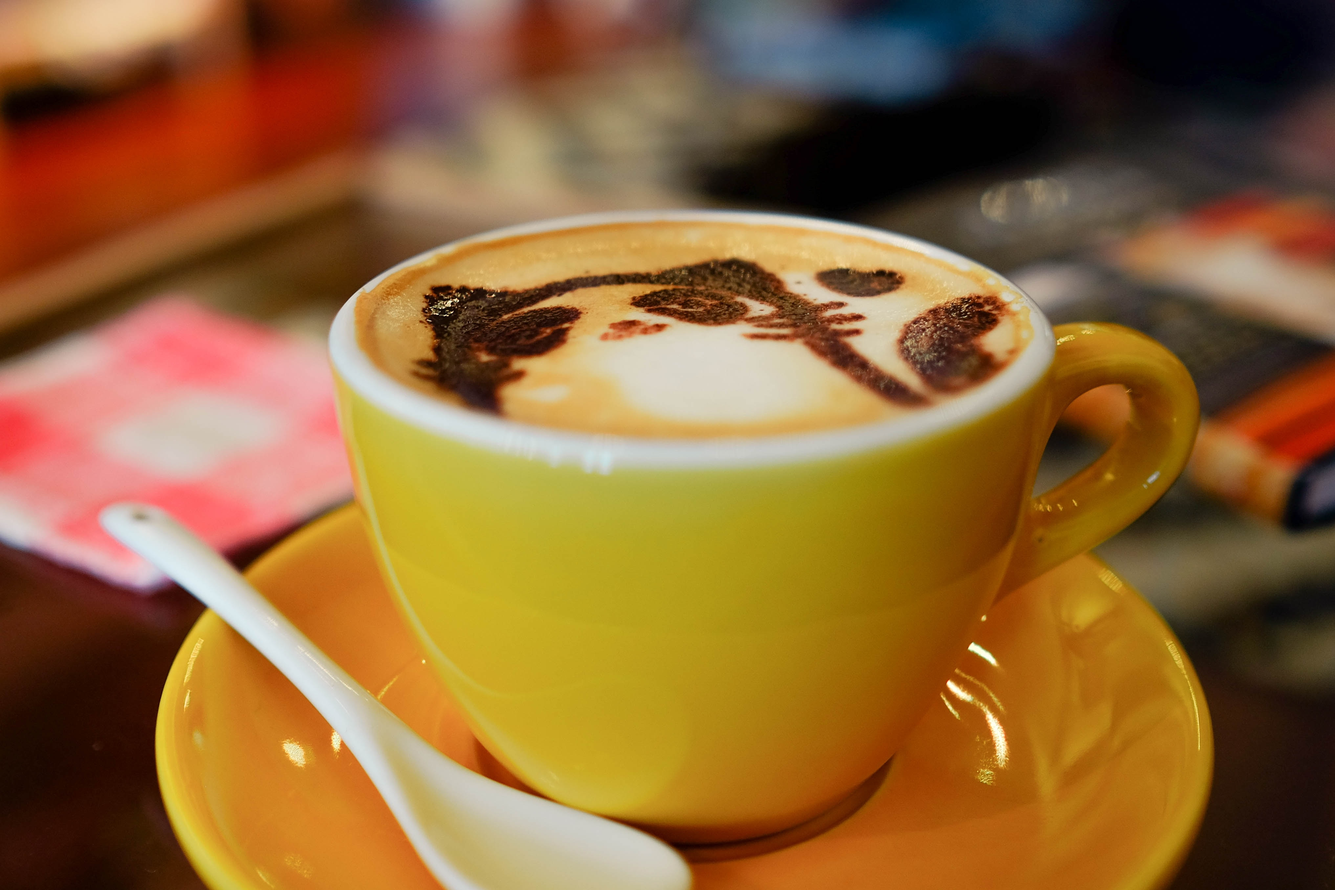
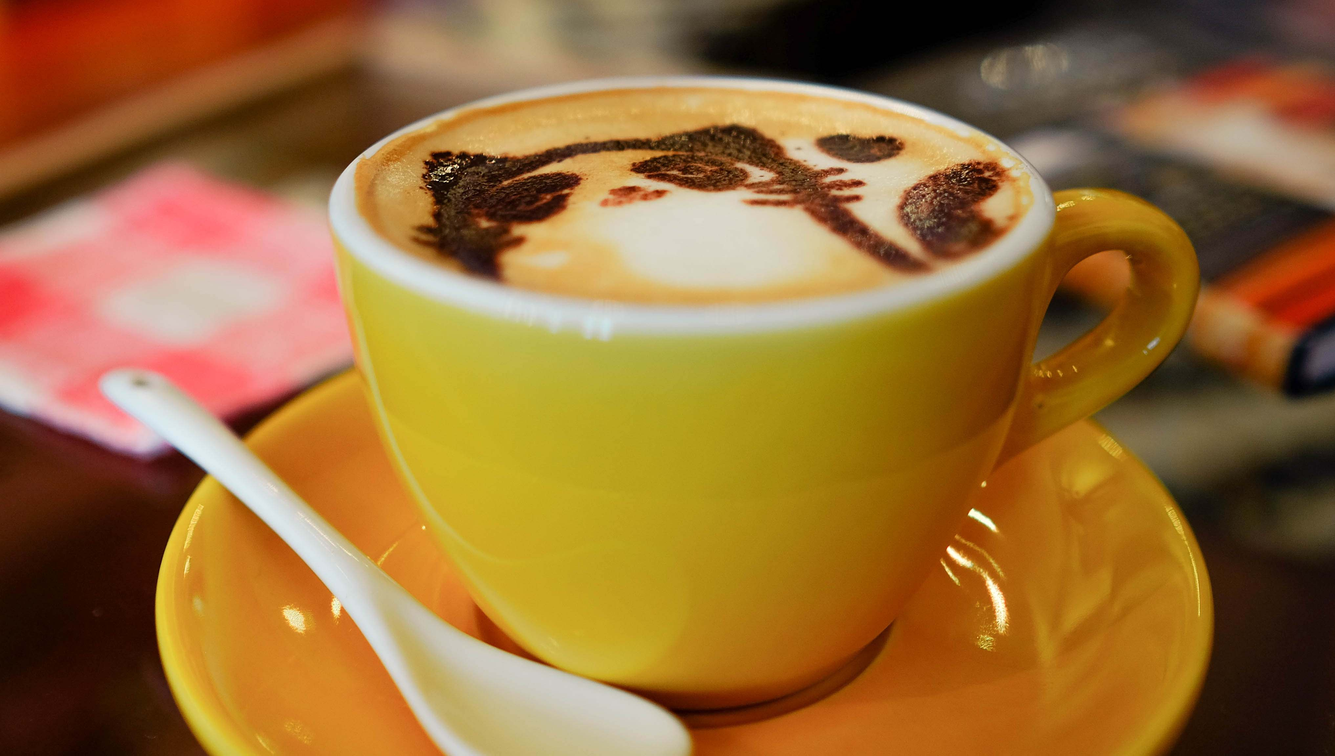
fixed image in header

diff --git a/index.html b/index.html
@@ -21,13 +21,27 @@
 
   <body>
 
-    <div class="header-img">
-      <picture>
-        <img src="img/cat-coffee-mobile.jpg" alt="header image">
-      </picture>
-    </div>
-   
-      
+    <div class="container">
+      <heaader>
+      <div class="header-img">
+        <nav>
+          
+        </nav>
+        <picture>
+          <source
+            media="(max-width: 600px)"
+            srcset="img/coffee-shop-mobile.jpg">
+
+          <source
+            media="(max-width: 900px)"
+            srcset="img/coffee-shop-medium.jpg">
+
+        
+          <img src="img/coffee-shop-large.jpg" alt="header image">
+        </picture>
+      </div>
+      </header>
+   </div>   
    
     
 

diff --git a/css/index.css b/css/index.css
@@ -129,9 +129,15 @@ table {
 * {
   box-sizing: border-box;
 }
+body .container {
+  width: 95%;
+  margin: 0 auto;
+}
 .header-img {
-  max-width: 100%;
+  width: 100%;
+  height: 60vh;
 }
 .header-img img {
-  max-width: 100%;
+  width: 100%;
+  height: 60vh;
 }

diff --git a/less/global.less b/less/global.less
@@ -3,4 +3,12 @@
     box-sizing: border-box;
   }
   
-  
+body {
+  //background:@main-color; 
+
+  .container{
+    width:95%;
+    margin:0 auto; 
+  }
+}
+

diff --git a/less/variables.less b/less/variables.less
@@ -4,3 +4,6 @@
 @tablet: ~"(max-width: 900px)"; 
 @desktop: ~"(max-width: 1200px)"; 
 @desktop-wide: ~"(max-width: 1800px)";
+
+//colors
+@main-color:#0D1F22; 

diff --git a/less/mixins.less b/less/mixins.less
@@ -4,6 +4,7 @@
 
 
 //for images
-.fit(@max-width:100%){
-    max-width:@max-width; 
+.fit(@width:100%){
+    width:@width; 
+    height: 60vh;
 }

diff --git a/less/home-page.less b/less/home-page.less
@@ -11,5 +11,4 @@
     }
 }
 
-//body
 
